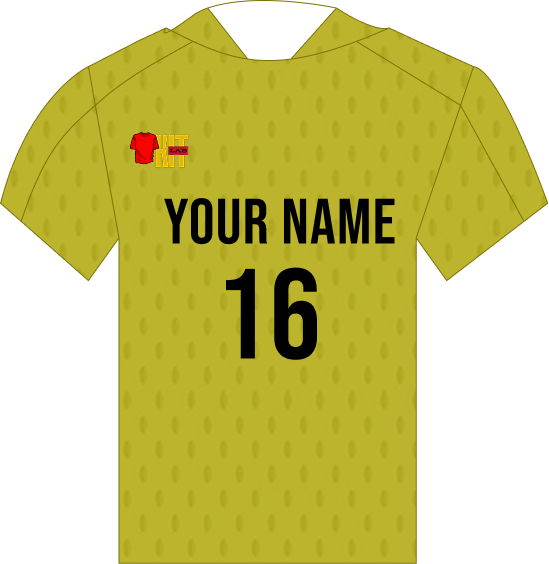
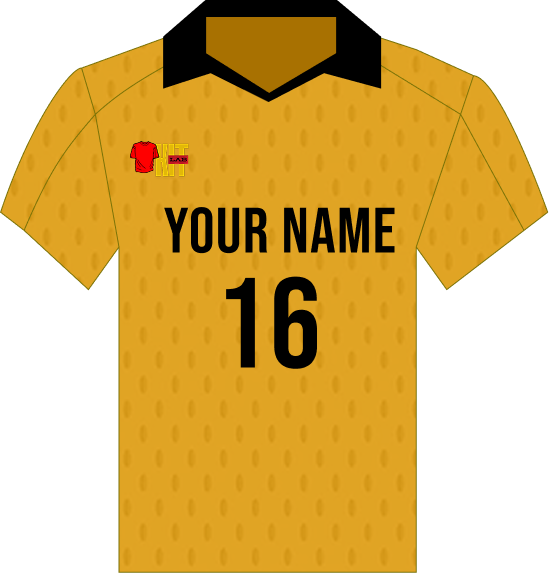
updated kits

diff --git a/src/pages/Customize.jsx b/src/pages/Customize.jsx
@@ -15,25 +15,36 @@ import {
 } from '../customize/icons';
 import ColorPicker from '../customize/ColorPicker';
 import cricketShirtImg from '../assets/cricket-shirt.png';
-import cricketTrousersImg from '../assets/cricket-trousers.png';
+import cricketTrousersImg from '../assets/cricket-trousers-front.png';
+import cricketTrousersBackImg from '../assets/cricket-trousers-back.png';
 import cricketSweaterImg from '../assets/cricket-sweater.png';
 import cricketCapImg from '../assets/cricket-cap.png';
 import footballJerseyImg from '../assets/football-jersey.png';
-import footballShortsImg from '../assets/football-shorts.png';
-import goalkeeperKitImg from '../assets/goalkeeper-kit.png';
+import footballShortsImg from '../assets/football-shorts-front.png';
+import footballShortsBackImg from '../assets/football-shorts-back.png';
+import goalkeeperKitImg from '../assets/goalkeeperkit-front.png';
+import goalkeeperKitBackImg from '../assets/goalkeeperkit-back.png';
 import basketballJerseyImg from '../assets/Basketball-Jersey.png';
-import basketballShortsImg from '../assets/basketball-shorts.png';
+import basketballShortsImg from '../assets/basketball-shorts-front.png';
+import basketballShortsBackImg from '../assets/basketball-shorts-back.png';
 import basketballShoesImg from '../assets/basketball-shoes.png';
 import trainingTShirtImg from '../assets/training-T-shit.png';
-import trainingShortsImg from '../assets/training-shorts.png';
-import trainingVestImg from '../assets/Training-vest.png';
-import tracksuitImg from '../assets/tracksuit.png';
-import warmupSuitImg from '../assets/Warm-up-suit.png';
-import trainingBibImg from '../assets/Training-bib.png';
+import trainingShortsImg from '../assets/training-shorts-front.png';
+import trainingShortsBackImg from '../assets/training-shorts-back.png';
+import trainingVestImg from '../assets/training-vest-front.png';
+import trainingVestBackImg from '../assets/training-vest-back.png';
+import tracksuitImg from '../assets/tracksuit-front.png';
+import tracksuitBackImg from '../assets/tracksuit-back.png';
+import warmupSuitImg from '../assets/warmup-suit-front.png';
+import warmupSuitBackImg from '../assets/warmup-suit-back.png';
+import trainingBibImg from '../assets/training-bib-front.png';
+import trainingBibBackImg from '../assets/training-bib-back.png';
 import boxingKitImg from '../assets/boxing-kit.png';
 import hockeyKitImg from '../assets/hockey-kit.png';
-import cyclingKitImg from '../assets/cycling-kit.png';
-import rugbyKitImg from '../assets/rudby-kit.png';
+import cyclingKitImg from '../assets/cycling-kit-front.png';
+import cyclingKitBackImg from '../assets/cycling-kit-back.png';
+import rugbyKitImg from '../assets/rugby-kit-front.png';
+import rugbyKitBackImg from '../assets/rugby-kit-back.png';
 import './Customize.css';
 
 /** Sport → specific product catalog, each mapped to a KIT_TYPES id so the SVG preview knows what to render */
@@ -42,7 +53,7 @@ const SPORT_KIT_GROUPS = [
     id: 'cricket', label: 'Cricket',
     items: [
       { id: 'cricket-shirt',    label: 'Cricket Shirt',    image: cricketShirtImg,    kitType: 'polo' },
-      { id: 'cricket-trousers', label: 'Cricket Trousers', image: cricketTrousersImg, kitType: 'shorts' },
+      { id: 'cricket-trousers', label: 'Cricket Trousers', image: cricketTrousersImg, imageBack: cricketTrousersBackImg, kitType: 'shorts' },
       { id: 'cricket-sweater',  label: 'Cricket Sweater',  image: cricketSweaterImg,  kitType: 'jumper' },
       { id: 'cricket-cap',      label: 'Cricket Cap',      image: cricketCapImg,      kitType: 'cap' },
     ],
@@ -51,27 +62,27 @@ const SPORT_KIT_GROUPS = [
     id: 'football', label: 'Football',
     items: [
       { id: 'football-jersey', label: 'Football Jersey', image: footballJerseyImg, kitType: 'jersey' },
-      { id: 'football-shorts', label: 'Football Shorts', image: footballShortsImg, kitType: 'shorts' },
-      { id: 'goalkeeper-kit',  label: 'Goalkeeper Kit',  image: goalkeeperKitImg,  kitType: 'jersey' },
-      { id: 'training-bib',    label: 'Training Bib',    image: trainingBibImg,    kitType: 'jersey' },
+      { id: 'football-shorts', label: 'Football Shorts', image: footballShortsImg, imageBack: footballShortsBackImg, kitType: 'shorts' },
+      { id: 'goalkeeper-kit',  label: 'Goalkeeper Kit',  image: goalkeeperKitImg,  imageBack: goalkeeperKitBackImg,  kitType: 'jersey' },
+      { id: 'training-bib',    label: 'Training Bib',    image: trainingBibImg,    imageBack: trainingBibBackImg,    kitType: 'jersey' },
     ],
   },
   {
     id: 'basketball', label: 'Basketball',
     items: [
       { id: 'basketball-jersey', label: 'Basketball Jersey', image: basketballJerseyImg, kitType: 'jersey' },
-      { id: 'basketball-shorts', label: 'Basketball Shorts', image: basketballShortsImg, kitType: 'shorts' },
+      { id: 'basketball-shorts', label: 'Basketball Shorts', image: basketballShortsImg, imageBack: basketballShortsBackImg, kitType: 'shorts' },
       { id: 'basketball-shoes',  label: 'Basketball Shoes',  image: basketballShoesImg,  kitType: 'socks' },
-      { id: 'warmup-suit',       label: 'Warm-up Suit',      image: warmupSuitImg,       kitType: 'jumper' },
+      { id: 'warmup-suit',       label: 'Warm-up Suit',      image: warmupSuitImg,       imageBack: warmupSuitBackImg,       kitType: 'jumper' },
     ],
   },
   {
     id: 'training', label: 'Training',
     items: [
       { id: 'training-tshirt', label: 'Training T-Shirt', image: trainingTShirtImg, kitType: 'jersey' },
-      { id: 'training-shorts', label: 'Training Shorts',  image: trainingShortsImg, kitType: 'shorts' },
-      { id: 'training-vest',   label: 'Training Vest',    image: trainingVestImg,   kitType: 'jersey' },
-      { id: 'tracksuit',       label: 'Tracksuit',        image: tracksuitImg,      kitType: 'jumper' },
+      { id: 'training-shorts', label: 'Training Shorts',  image: trainingShortsImg, imageBack: trainingShortsBackImg, kitType: 'shorts' },
+      { id: 'training-vest',   label: 'Training Vest',    image: trainingVestImg,   imageBack: trainingVestBackImg,   kitType: 'jersey' },
+      { id: 'tracksuit',       label: 'Tracksuit',        image: tracksuitImg,      imageBack: tracksuitBackImg,      kitType: 'jumper' },
     ],
   },
   {
@@ -79,11 +90,19 @@ const SPORT_KIT_GROUPS = [
     items: [
       { id: 'boxing-kit',  label: 'Boxing Kit',  image: boxingKitImg,  kitType: 'shorts' },
       { id: 'hockey-kit',  label: 'Hockey Kit',  image: hockeyKitImg,  kitType: 'jersey' },
-      { id: 'cycling-kit', label: 'Cycling Kit', image: cyclingKitImg, kitType: 'jersey' },
-      { id: 'rugby-kit',   label: 'Rugby Kit',   image: rugbyKitImg,   kitType: 'jersey' },
+      { id: 'cycling-kit', label: 'Cycling Kit', image: cyclingKitImg, imageBack: cyclingKitBackImg, kitType: 'jersey' },
+      { id: 'rugby-kit',   label: 'Rugby Kit',   image: rugbyKitImg,   imageBack: rugbyKitBackImg,   kitType: 'jersey' },
     ],
   },
 ];
+
+function findKitItem(slug) {
+  for (const group of SPORT_KIT_GROUPS) {
+    const item = group.items.find(it => it.id === slug);
+    if (item) return { group, item };
+  }
+  return null;
+}
 
 const TABS = [
   { id: 'kit',    label: 'Kit',    icon: <IconKit /> },
@@ -106,7 +125,13 @@ const DEFAULT_LAYER_ORDER = [
 
 export default function Customize() {
   const [searchParams] = useSearchParams();
-  const [design, setDesign, { undo, redo, canUndo, canRedo }] = useHistoryState(loadStoredDesign);
+  // Coming from a Kits catalog card carries ?kit=<slug> so this opens straight into that kit
+  // instead of whatever was last customized.
+  const [design, setDesign, { undo, redo, canUndo, canRedo }] = useHistoryState(() => {
+    const stored = loadStoredDesign();
+    const match = findKitItem(searchParams.get('kit'));
+    return match ? { ...stored, kitType: match.item.kitType, kitProduct: match.item.label } : stored;
+  });
   const [activeTab, setActiveTab] = useState('kit');
   const [activeTool, setActiveTool] = useState('select');
   const [applyTarget, setApplyTarget] = useState('body');
@@ -364,7 +389,7 @@ export default function Customize() {
 
           <div className="customizer__panel">
             {activeTab === 'kit' && (
-              <KitPanel design={design} patch={patch} />
+              <KitPanel design={design} patch={patch} initialKitSlug={searchParams.get('kit')} side={side} />
             )}
 
             {activeTab === 'colors' && (
@@ -460,8 +485,8 @@ function UnitDropdown({ value, onChange }) {
   );
 }
 
-function KitPanel({ design, patch }) {
-  const [expandedSport, setExpandedSport] = useState(null);
+function KitPanel({ design, patch, initialKitSlug, side }) {
+  const [expandedSport, setExpandedSport] = useState(() => findKitItem(initialKitSlug)?.group.id ?? null);
   const activeGroup = SPORT_KIT_GROUPS.find(g => g.id === expandedSport);
   const [showAllTemplates, setShowAllTemplates] = useState(false);
   const visibleTemplates = showAllTemplates ? DESIGN_TEMPLATES : DESIGN_TEMPLATES.slice(0, 4);
@@ -495,7 +520,7 @@ function KitPanel({ design, patch }) {
                   onClick={() => patch({ kitType: item.kitType, kitProduct: item.label })}
                   className={`panel__kit-btn${design.kitProduct === item.label ? ' panel__kit-btn--active' : ''}`}
                 >
-                  <img src={item.image} alt={item.label} className="panel__kit-thumb" />
+                  <img src={side === 'back' && item.imageBack ? item.imageBack : item.image} alt={item.label} className="panel__kit-thumb" />
                   <span>{item.label}</span>
                 </button>
               ))}

diff --git a/src/pages/Kits.jsx b/src/pages/Kits.jsx
@@ -1,48 +1,48 @@
 import { useState, useEffect } from 'react';
 import { Link, useSearchParams } from 'react-router-dom';
 import cricketShirtImg from '../assets/cricket-shirt.png';
-import cricketTrousersImg from '../assets/cricket-trousers.png';
+import cricketTrousersImg from '../assets/cricket-trousers-front.png';
 import cricketSweaterImg from '../assets/cricket-sweater.png';
 import footballJerseyImg from '../assets/football-jersey.png';
-import footballShortsImg from '../assets/football-shorts.png';
-import goalkeeperKitImg from '../assets/goalkeeper-kit.png';
+import footballShortsImg from '../assets/football-shorts-front.png';
+import goalkeeperKitImg from '../assets/goalkeeperkit-front.png';
 import basketballJerseyImg from '../assets/Basketball-Jersey.png';
-import basketballShortsImg from '../assets/basketball-shorts.png';
+import basketballShortsImg from '../assets/basketball-shorts-front.png';
 import trainingTShirtImg from '../assets/training-T-shit.png';
-import trainingShortsImg from '../assets/training-shorts.png';
-import trainingVestImg from '../assets/Training-vest.png';
+import trainingShortsImg from '../assets/training-shorts-front.png';
+import trainingVestImg from '../assets/training-vest-front.png';
 import cricketCapImg from '../assets/cricket-cap.png';
 import basketballShoesImg from '../assets/basketball-shoes.png';
-import trainingBibImg from '../assets/Training-bib.png';
-import warmupSuitImg from '../assets/Warm-up-suit.png';
-import tracksuitImg from '../assets/tracksuit.png';
+import trainingBibImg from '../assets/training-bib-front.png';
+import warmupSuitImg from '../assets/warmup-suit-front.png';
+import tracksuitImg from '../assets/tracksuit-front.png';
 import boxingKitImg from '../assets/boxing-kit.png';
 import hockeyKitImg from '../assets/hockey-kit.png';
-import cyclingKitImg from '../assets/cycling-kit.png';
-import rugbyKitImg from '../assets/rudby-kit.png';
+import cyclingKitImg from '../assets/cycling-kit-front.png';
+import rugbyKitImg from '../assets/rugby-kit-front.png';
 import './Kits.css';
 
 const ALL_KITS = [
-  { id: 1,  emoji: '🏏', image: cricketShirtImg, name: 'Cricket Shirt',       sport: 'cricket',    desc: 'Premium cotton-poly blend cricket shirt with classic fit.', color: '#1a3a1a' },
-  { id: 2,  emoji: '🏏', image: cricketTrousersImg, name: 'Cricket Trousers',    sport: 'cricket',    desc: 'Full-length cricket trousers with reinforced knees.', color: '#7a5800' },
-  { id: 3,  emoji: '🏏', image: cricketSweaterImg, name: 'Cricket Sweater',     sport: 'cricket',    desc: 'V-neck wool cricket sweater with team colors.', color: '#4a0010' },
-  { id: 4,  emoji: '⚽', image: footballJerseyImg, name: 'Football Jersey',     sport: 'football',   desc: 'Lightweight moisture-wicking football jersey.', color: '#7a3a00' },
-  { id: 5,  emoji: '⚽', image: footballShortsImg, name: 'Football Shorts',     sport: 'football',   desc: 'Elasticated football shorts with side pockets.', color: '#0a1a3a' },
-  { id: 6,  emoji: '⚽', image: goalkeeperKitImg, name: 'Goalkeeper Kit',      sport: 'football',   desc: 'High-visibility goalkeeper jersey and shorts set.', color: '#2a1a0a' },
-  { id: 7,  emoji: '🏀', image: basketballJerseyImg, name: 'Basketball Jersey',   sport: 'basketball', desc: 'Mesh-panelled basketball jersey for maximum breathability.', color: '#0a1a3a' },
-  { id: 8,  emoji: '🏀', image: basketballShortsImg, name: 'Basketball Shorts',   sport: 'basketball', desc: 'Loose-fit basketball shorts with drawstring.', color: '#1a3a1a' },
-  { id: 9,  emoji: '💪', image: trainingTShirtImg, name: 'Training T-Shirt',    sport: 'training',   desc: 'Comfortable training tee in moisture-wicking fabric.', color: '#4a0010' },
-  { id: 10, emoji: '👟', image: basketballShoesImg, name: 'Basketball Shoes',   sport: 'basketball', desc: 'High-performance basketball shoes with ankle support.', color: '#4a0010' },
-  { id: 11, emoji: '🩳', image: trainingShortsImg, name: 'Training Shorts',     sport: 'training',   desc: 'Lightweight training shorts with reflective trim.', color: '#2a2a2a' },
-  { id: 12, emoji: '🦺', image: trainingVestImg, name: 'Training Vest',       sport: 'training',   desc: 'Mesh training vest for team practice drills.', color: '#3a2a1a' },
-  { id: 13, emoji: '🧢', image: cricketCapImg, name: 'Cricket Cap',        sport: 'cricket',    desc: 'Classic cricket cap with adjustable fit.', color: '#1a3a1a' },
-  { id: 14, emoji: '🎽', image: trainingBibImg,    name: 'Training Bib',       sport: 'football',   desc: 'Lightweight mesh training bib for team drills.', color: '#0a1a3a' },
-  { id: 15, emoji: '🧥', image: warmupSuitImg,     name: 'Warm-up Suit',       sport: 'basketball', desc: 'Full-body warm-up suit for pre-game preparation.', color: '#7a3a00' },
-  { id: 16, emoji: '👟', image: tracksuitImg,      name: 'Tracksuit',           sport: 'training',   desc: 'Comfortable full-body tracksuit for training sessions.', color: '#2a0a4a' },
-  { id: 17, emoji: '🥊', image: boxingKitImg,      name: 'Boxing Kit',          sport: 'others',     desc: 'Professional boxing shorts and vest set.', color: '#0a3a1a' },
-  { id: 18, emoji: '🏑', image: hockeyKitImg,      name: 'Hockey Kit',          sport: 'others',     desc: 'Durable hockey jersey and shorts for field play.', color: '#4a0010' },
-  { id: 19, emoji: '🚴', image: cyclingKitImg,     name: 'Cycling Kit',         sport: 'others',     desc: 'Aerodynamic cycling jersey and shorts.', color: '#0a1a3a' },
-  { id: 20, emoji: '🏉', image: rugbyKitImg,       name: 'Rugby Kit',           sport: 'others',     desc: 'Heavy-duty rugby jersey built for contact sport.', color: '#3a1a0a' },
+  { id: 1,  slug: 'cricket-shirt',    emoji: '🏏', image: cricketShirtImg, name: 'Cricket Shirt',       sport: 'cricket',    desc: 'Premium cotton-poly blend cricket shirt with classic fit.', color: '#1a3a1a' },
+  { id: 2,  slug: 'cricket-trousers', emoji: '🏏', image: cricketTrousersImg, name: 'Cricket Trousers',    sport: 'cricket',    desc: 'Full-length cricket trousers with reinforced knees.', color: '#7a5800' },
+  { id: 3,  slug: 'cricket-sweater',  emoji: '🏏', image: cricketSweaterImg, name: 'Cricket Sweater',     sport: 'cricket',    desc: 'V-neck wool cricket sweater with team colors.', color: '#4a0010' },
+  { id: 4,  slug: 'football-jersey',  emoji: '⚽', image: footballJerseyImg, name: 'Football Jersey',     sport: 'football',   desc: 'Lightweight moisture-wicking football jersey.', color: '#7a3a00' },
+  { id: 5,  slug: 'football-shorts',  emoji: '⚽', image: footballShortsImg, name: 'Football Shorts',     sport: 'football',   desc: 'Elasticated football shorts with side pockets.', color: '#0a1a3a' },
+  { id: 6,  slug: 'goalkeeper-kit',   emoji: '⚽', image: goalkeeperKitImg, name: 'Goalkeeper Kit',      sport: 'football',   desc: 'High-visibility goalkeeper jersey and shorts set.', color: '#2a1a0a' },
+  { id: 7,  slug: 'basketball-jersey', emoji: '🏀', image: basketballJerseyImg, name: 'Basketball Jersey',   sport: 'basketball', desc: 'Mesh-panelled basketball jersey for maximum breathability.', color: '#0a1a3a' },
+  { id: 8,  slug: 'basketball-shorts', emoji: '🏀', image: basketballShortsImg, name: 'Basketball Shorts',   sport: 'basketball', desc: 'Loose-fit basketball shorts with drawstring.', color: '#1a3a1a' },
+  { id: 9,  slug: 'training-tshirt',  emoji: '💪', image: trainingTShirtImg, name: 'Training T-Shirt',    sport: 'training',   desc: 'Comfortable training tee in moisture-wicking fabric.', color: '#4a0010' },
+  { id: 10, slug: 'basketball-shoes', emoji: '👟', image: basketballShoesImg, name: 'Basketball Shoes',   sport: 'basketball', desc: 'High-performance basketball shoes with ankle support.', color: '#4a0010' },
+  { id: 11, slug: 'training-shorts',  emoji: '🩳', image: trainingShortsImg, name: 'Training Shorts',     sport: 'training',   desc: 'Lightweight training shorts with reflective trim.', color: '#2a2a2a' },
+  { id: 12, slug: 'training-vest',    emoji: '🦺', image: trainingVestImg, name: 'Training Vest',       sport: 'training',   desc: 'Mesh training vest for team practice drills.', color: '#3a2a1a' },
+  { id: 13, slug: 'cricket-cap',      emoji: '🧢', image: cricketCapImg, name: 'Cricket Cap',        sport: 'cricket',    desc: 'Classic cricket cap with adjustable fit.', color: '#1a3a1a' },
+  { id: 14, slug: 'training-bib',     emoji: '🎽', image: trainingBibImg,    name: 'Training Bib',       sport: 'football',   desc: 'Lightweight mesh training bib for team drills.', color: '#0a1a3a' },
+  { id: 15, slug: 'warmup-suit',      emoji: '🧥', image: warmupSuitImg,     name: 'Warm-up Suit',       sport: 'basketball', desc: 'Full-body warm-up suit for pre-game preparation.', color: '#7a3a00' },
+  { id: 16, slug: 'tracksuit',        emoji: '👟', image: tracksuitImg,      name: 'Tracksuit',           sport: 'training',   desc: 'Comfortable full-body tracksuit for training sessions.', color: '#2a0a4a' },
+  { id: 17, slug: 'boxing-kit',       emoji: '🥊', image: boxingKitImg,      name: 'Boxing Kit',          sport: 'others',     desc: 'Professional boxing shorts and vest set.', color: '#0a3a1a' },
+  { id: 18, slug: 'hockey-kit',       emoji: '🏑', image: hockeyKitImg,      name: 'Hockey Kit',          sport: 'others',     desc: 'Durable hockey jersey and shorts for field play.', color: '#4a0010' },
+  { id: 19, slug: 'cycling-kit',      emoji: '🚴', image: cyclingKitImg,     name: 'Cycling Kit',         sport: 'others',     desc: 'Aerodynamic cycling jersey and shorts.', color: '#0a1a3a' },
+  { id: 20, slug: 'rugby-kit',        emoji: '🏉', image: rugbyKitImg,       name: 'Rugby Kit',           sport: 'others',     desc: 'Heavy-duty rugby jersey built for contact sport.', color: '#3a1a0a' },
 ];
 
 const SPORTS = ['All', 'Cricket', 'Football', 'Basketball', 'Training', 'Others'];
@@ -146,7 +146,7 @@ function KitDetailCard({ kit, showTag }) {
         <h3 className="kit-detail-card__name">{kit.name}</h3>
         <p className="kit-detail-card__desc">{kit.desc}</p>
         <div className="kit-detail-card__actions">
-          <Link to="/customize" className="btn btn-red kit-detail-card__btn">
+          <Link to={`/customize?kit=${kit.slug}`} className="btn btn-red kit-detail-card__btn">
             Customize
           </Link>
           <Link to="/#contact" className="btn kit-detail-card__btn kit-detail-card__btn--quote">

diff --git a/src/components/ProductGallery/ProductGallery.jsx b/src/components/ProductGallery/ProductGallery.jsx
@@ -1,17 +1,17 @@
 import { useState } from 'react';
 import { Link } from 'react-router-dom';
 import cricketShirtImg    from '../../assets/cricket-shirt.png';
-import cricketTrousersImg from '../../assets/cricket-trousers.png';
+import cricketTrousersImg from '../../assets/cricket-trousers-front.png';
 import cricketSweaterImg  from '../../assets/cricket-sweater.png';
 import footballJerseyImg  from '../../assets/football-jersey.png';
-import footballShortsImg  from '../../assets/football-shorts.png';
-import goalkeeperKitImg   from '../../assets/goalkeeper-kit.png';
+import footballShortsImg  from '../../assets/football-shorts-front.png';
+import goalkeeperKitImg   from '../../assets/goalkeeperkit-front.png';
 import basketballJerseyImg from '../../assets/Basketball-Jersey.png';
-import basketballShortsImg from '../../assets/basketball-shorts.png';
+import basketballShortsImg from '../../assets/basketball-shorts-front.png';
 import trainingTShirtImg  from '../../assets/training-T-shit.png';
 import trackJacketImg     from '../../assets/Track-jacket.png';
-import trainingShortsImg  from '../../assets/training-shorts.png';
-import trainingVestImg    from '../../assets/Training Vest.png';
+import trainingShortsImg  from '../../assets/training-shorts-front.png';
+import trainingVestImg    from '../../assets/training-vest-front.png';
 import './ProductGallery.css';
 
 const PRODUCTS = [

diff --git a/src/pages/Customize.css b/src/pages/Customize.css
@@ -391,9 +391,9 @@
   align-items: center;
   gap: 6px;
   padding: var(--space-3) var(--space-2);
-  background: var(--bg-600);
+  background: var(--bg-700);
   border: 1.5px solid var(--border-dark);
-  color: var(--light-500);
+  color: var(--light-400);
   font-family: var(--font-body);
   font-size: 11px;
   font-weight: 600;
@@ -404,19 +404,19 @@
   transition: all 200ms ease;
 }
 
-.panel__kit-thumb { width: 42px; height: 42px; object-fit: contain; filter: brightness(0) invert(1); }
+.panel__kit-thumb { width: 42px; height: 42px; object-fit: contain; }
 
 .panel__kit-btn:hover {
   border-color: var(--light-400);
   color: var(--light-100);
-  background: var(--bg-500);
+  background: var(--bg-600);
   transform: translateY(-2px);
 }
 
 .panel__kit-btn--active {
-  border-color: var(--light-100);
+  border-color: var(--red);
   color: var(--light-100);
-  background: rgba(var(--white-rgb), 0.08);
+  background: var(--bg-600);
 }
 
 /* Sport category grid — text-only boxes shown before a sport is picked */

diff --git a/src/pages/Kits.css b/src/pages/Kits.css
@@ -121,7 +121,7 @@
 .kit-detail-card__image {
   position: relative;
   aspect-ratio: 1.2;
-  background: var(--kit-color, var(--bg-500));
+  background: var(--bg-700);
   display: flex;
   align-items: center;
   justify-content: center;
@@ -133,11 +133,9 @@
 }
 
 .kit-detail-card__img {
-  width: 110px;
-  height: 110px;
+  width: 175px;
+  height: 175px;
   object-fit: contain;
-  filter: invert(1);
-  mix-blend-mode: screen;
 }
 
 .kit-detail-card__sport {